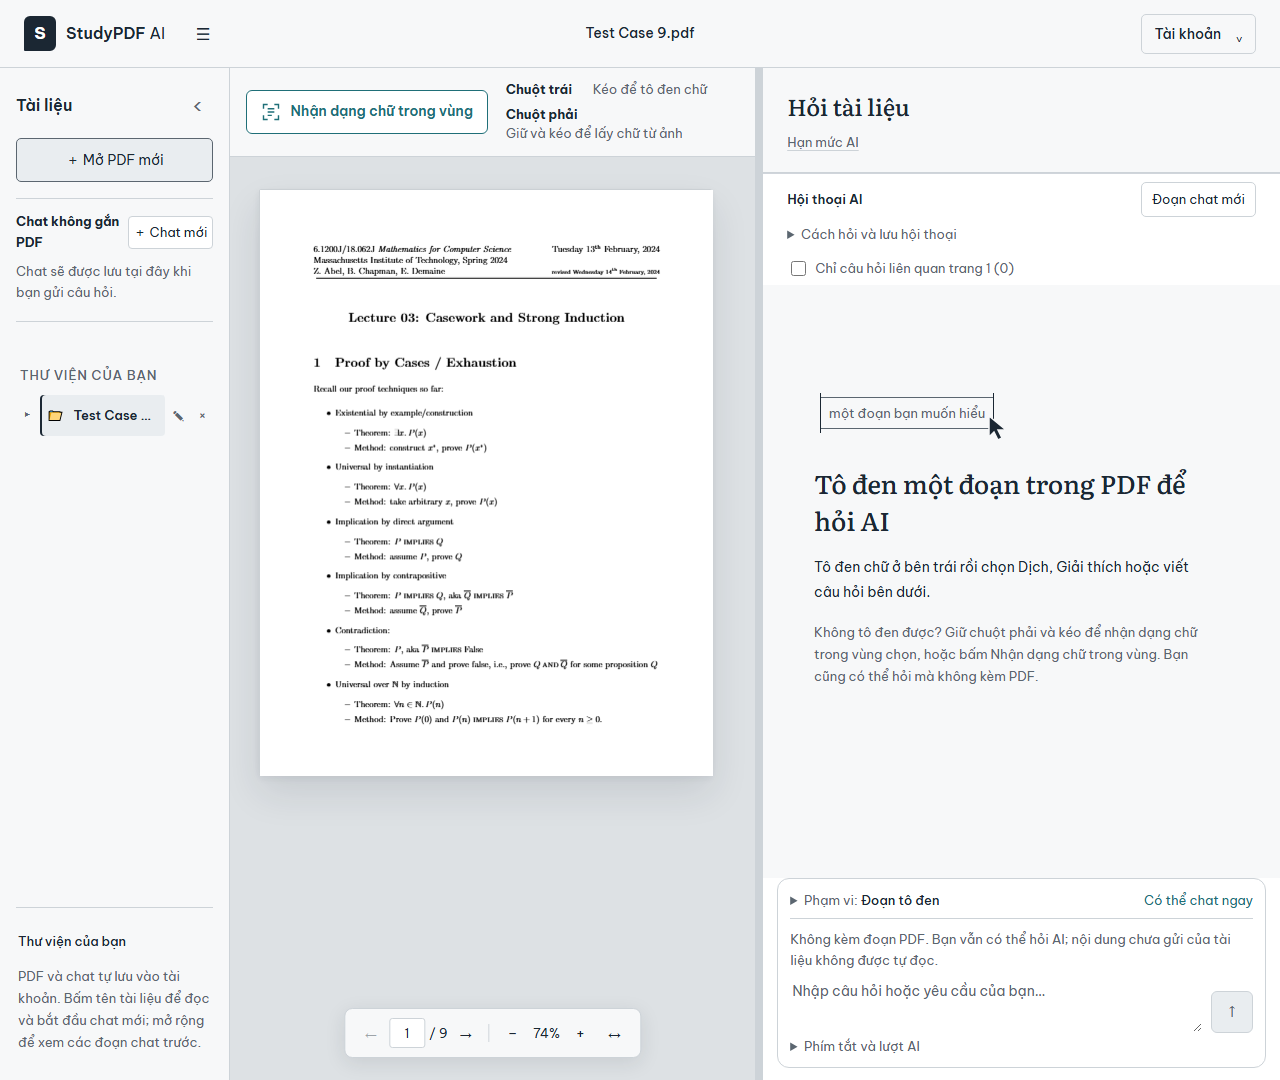
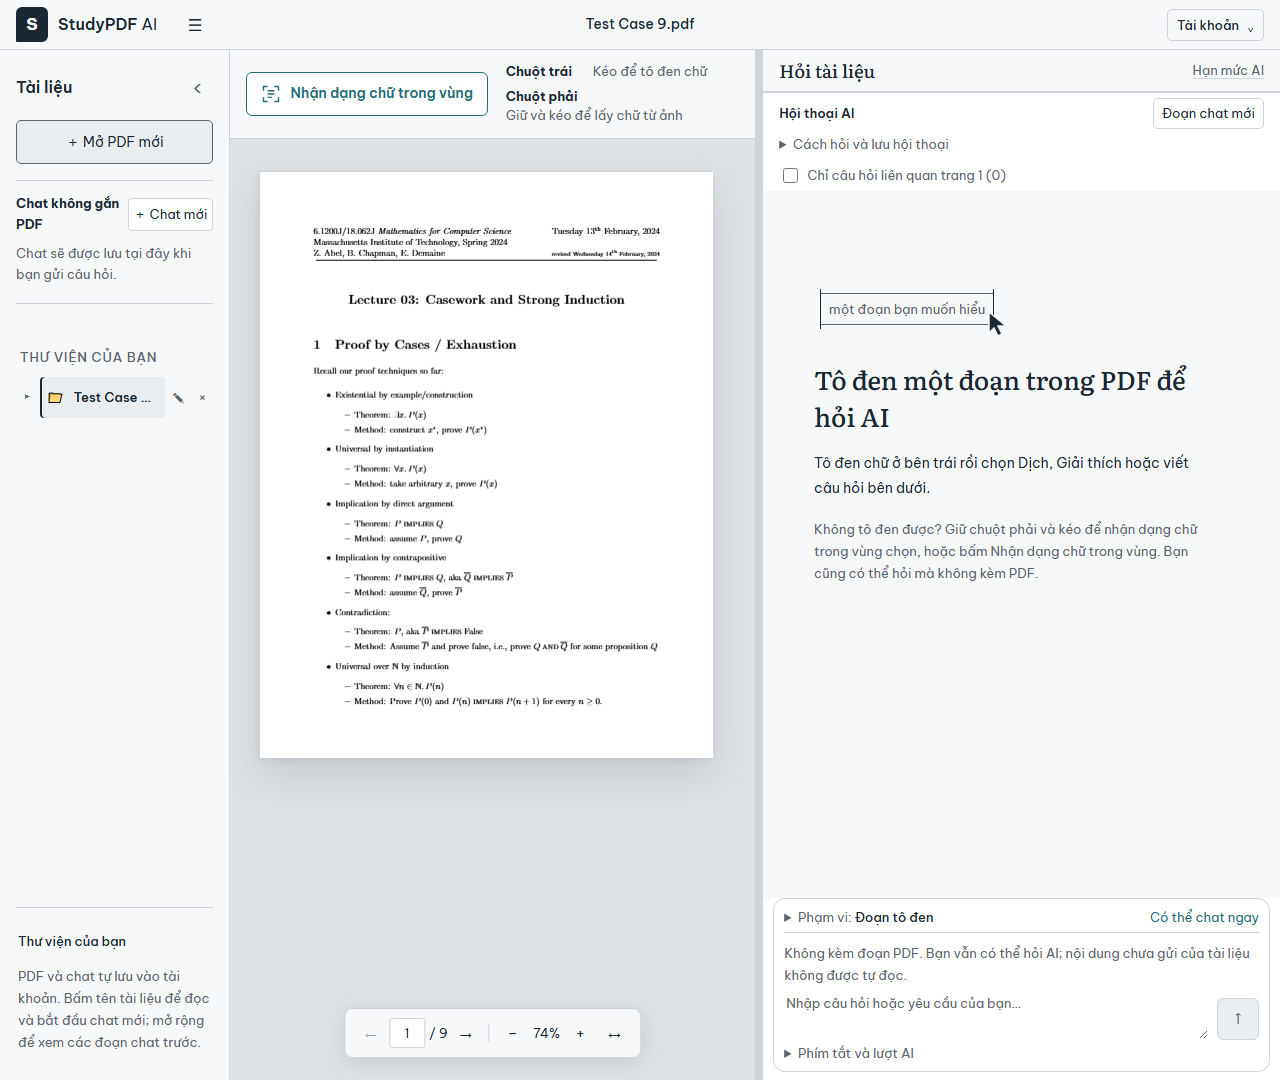
ui: compact chat controls and typography to expand reading area

diff --git a/src/index.css b/src/index.css
@@ -802,3 +802,41 @@ button:disabled {cursor:default;}
 .region-ocr-controls {border-top:0;border-bottom:1px solid var(--border);}
 .region-ocr-status,.region-ocr-hint {top:100px;}
 @media(max-width:600px){.region-ocr-status,.region-ocr-hint {top:154px;}}
+
+/* Dense reading layout: reserve vertical space for the conversation. */
+.app-header {height:50px;padding-inline:16px;gap:14px;}
+.app-header .account-menu-trigger {min-height:32px;padding:5px 9px;font-size:13px;gap:8px;}
+.split-ai .assistant-header {display:flex;flex-wrap:wrap;align-items:center;gap:4px 16px;padding:8px 16px;}
+.assistant-header h1 {font-size:18px;line-height:1.4;margin:0;}
+.split-ai .assistant-header > p {flex-basis:100%;font-size:13px;}
+.reader-usage-details {margin:0 0 0 auto;}
+.reader-usage-details summary {padding:2px 0;}
+.reader-usage-details .usage-status {margin:4px 0 0;padding:4px 7px;gap:3px 7px;}
+.split-ai .chat-header {padding:5px 16px;gap:3px 8px;}
+.split-ai .chat-header > button {min-height:30px;padding:4px 8px;}
+.chat-help summary {font-size:13px;line-height:1.45;}
+.chat-page-filter {padding:3px 16px 5px;line-height:1.4;}
+.split-ai .chat-messages {padding:12px 16px;font-size:13px;}
+.chat-turn {margin-bottom:16px;}
+.split-ai .chat-user {margin-left:16px;padding:8px 10px;border-radius:8px 8px 2px 8px;}
+.chat-user p {margin:5px 0;line-height:1.55;font-size:13px;}
+.chat-user details {margin-top:4px;}
+.chat-user blockquote {max-height:88px;overflow:auto;margin:6px 0 0;padding:5px 10px;line-height:1.55;}
+.chat-assistant {padding-top:9px;line-height:1.6;}
+.ai-answer {font-size:13px;line-height:1.65;}
+.ai-answer p {margin:7px 0;}
+.ai-markdown :is(ul,ol) {margin-block:7px;padding-left:22px;}
+.ai-markdown h1 {font-size:19px;}.ai-markdown h2 {font-size:17px;}.ai-markdown h3 {font-size:15px;}
+.chat-assistant > p[role="status"] {margin:7px 0 3px;}
+.split-ai .chat-composer {margin:0 10px 8px;padding:7px 10px;}
+.composer-context {padding-bottom:4px;margin-bottom:4px;}
+.split-ai .chat-composer .chat-excerpt-preview {margin:4px 0;padding-block:4px;}
+.chat-composer .chat-excerpt-preview blockquote {max-height:54px;overflow:auto;}
+.split-ai .chat-input-row textarea {min-height:38px;padding-block:4px;font-size:13px;}
+@media(max-width:860px){
+ .app-header {height:auto;min-height:50px;padding:7px 12px;gap:4px 10px;}
+ .split-ai .assistant-header {padding:7px 12px;}
+ .split-ai .chat-header,.split-ai .chat-messages {padding-inline:12px;}
+ .chat-page-filter {padding-inline:12px;}
+ .reader-usage-details[open] {flex-basis:100%;margin-left:0;}
+}
